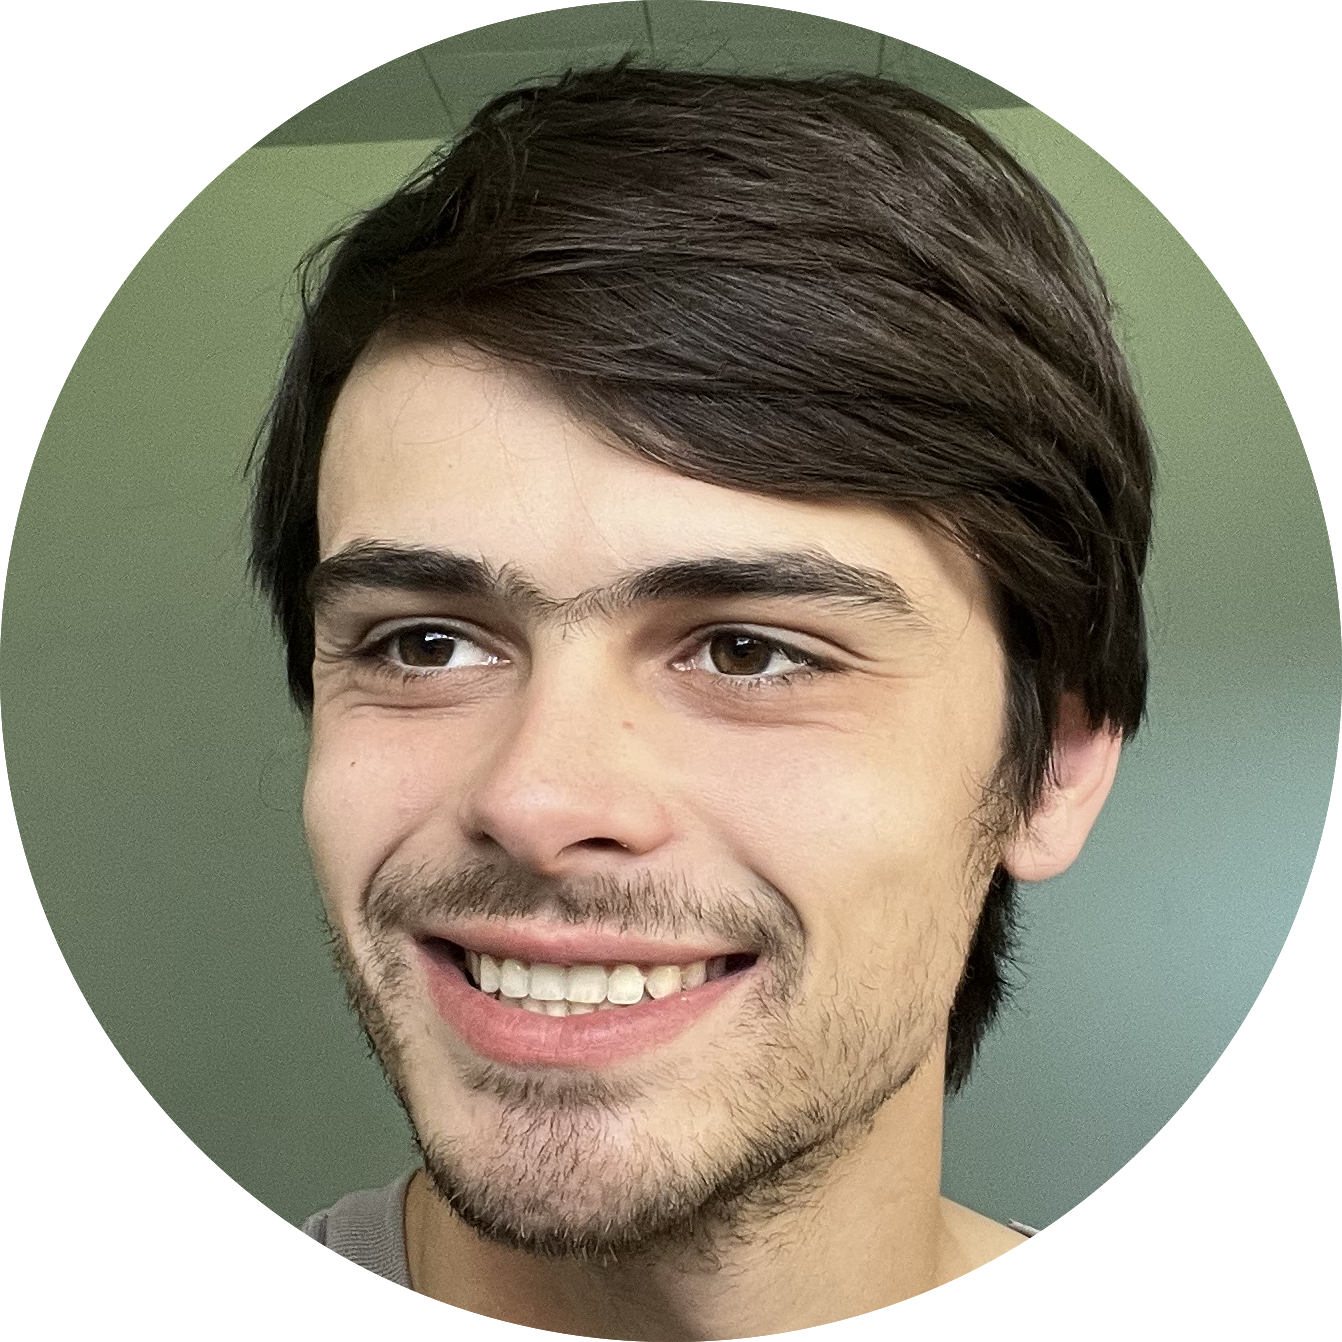
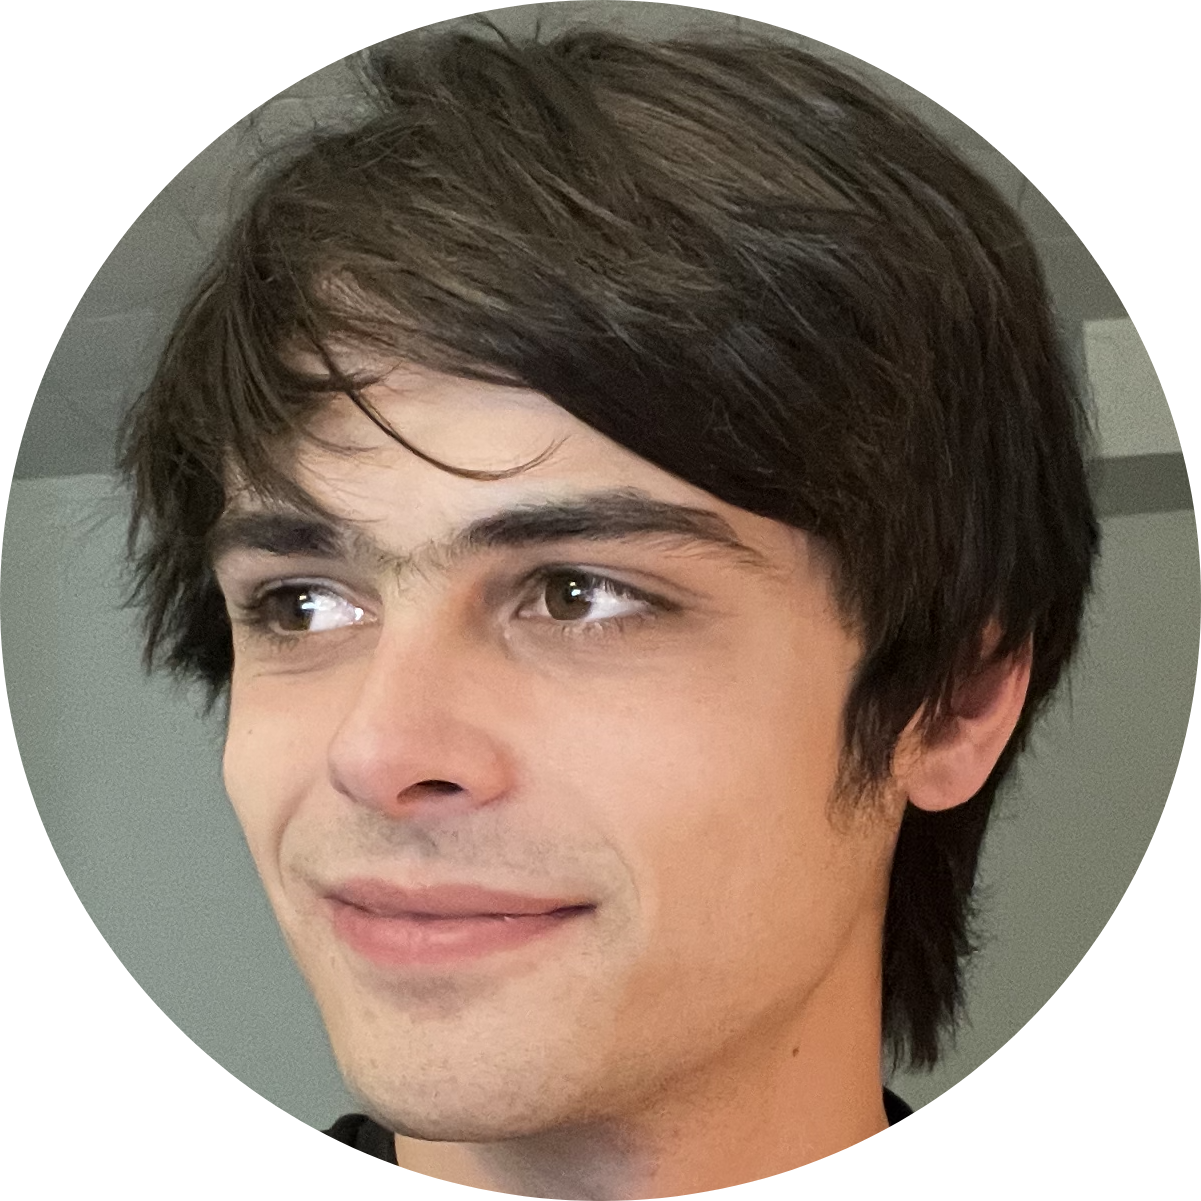
bio update

diff --git a/src/pages/Home.js b/src/pages/Home.js
@@ -2,6 +2,12 @@ import React, {useState, useEffect, useRef} from 'react'
 import styled from 'styled-components'
 import Body from '../components/Body'
 import pic from '../images/smile001.png'
+import pic2 from '../images/face.png'
+
+import jiraPic from '../images/jira.png'
+import npmPic from '../images/npm.png'
+
+
 import jsPic from '../images/javascript.png'
 import htmlPic from '../images/html5.png'
 import cssPic from '../images/css3.png'
@@ -27,58 +33,71 @@ import playhead from '../images/playhead.png'
 import arrow from '../images/triangle.png'
 import {isMobile} from 'react-device-detect'
 
-import MUUU from '../images/faceAngles/0 3.png'
 import MUU from '../images/faceAngles/0 2.png'
 import MU from '../images/faceAngles/0 1.png'
 import MM from '../images/faceAngles/0 0.png'
 import MD from '../images/faceAngles/0 -1.png'
 import MDD from '../images/faceAngles/0 -2.png'
-import MDDD from '../images/faceAngles/0 -3.png'
 
-import RUUU from '../images/faceAngles/1 3.png'
 import RUU from '../images/faceAngles/1 2.png'
 import RU from '../images/faceAngles/1 1.png'
 import RM from '../images/faceAngles/1 0.png'
 import RD from '../images/faceAngles/1 -1.png'
 import RDD from '../images/faceAngles/1 -2.png'
-import RDDD from '../images/faceAngles/1 -3.png'
 
-import RRUUU from '../images/faceAngles/2 3.png'
 import RRUU from '../images/faceAngles/2 2.png'
 import RRU from '../images/faceAngles/2 1.png'
 import RRM from '../images/faceAngles/2 0.png'
 import RRD from '../images/faceAngles/2 -1.png'
 import RRDD from '../images/faceAngles/2 -2.png'
-import RRDDD from '../images/faceAngles/2 -3.png'
 
-import LUUU from '../images/faceAngles/-1 3.png'
+
 import LUU from '../images/faceAngles/-1 2.png'
 import LU from '../images/faceAngles/-1 1.png'
 import LM from '../images/faceAngles/-1 0.png'
 import LD from '../images/faceAngles/-1 -1.png'
 import LDD from '../images/faceAngles/-1 -2.png'
-import LDDD from '../images/faceAngles/-1 -3.png'
 
-import LLUUU from '../images/faceAngles/-2 3.png'
 import LLUU from '../images/faceAngles/-2 2.png'
 import LLU from '../images/faceAngles/-2 1.png'
 import LLM from '../images/faceAngles/-2 0.png'
 import LLD from '../images/faceAngles/-2 -1.png'
 import LLDD from '../images/faceAngles/-2 -2.png'
-import LLDDD from '../images/faceAngles/-2 -3.png'
 
+const faceAngles = [
+    [LLUU, LLU, LLM, LLD, LLDD],
+    [LUU, LU, LM, LD, LDD],
+    [MUU, MU, MM, MD, MDD],
+    [RUU, RU, RM, RD, RDD],
+    [RRUU, RRU, RRM, RRD, RRDD],
+]
 
 const Home = () => {
 
     const [playerOpen, setPlayerOpen] = useState(false)
     const [selAudio, setSelAudio] = useState(null)
     const [selTitle, setSelTitle] = useState(null)
-  
+    const [facePic, setFacePic] = useState(MM)
 
     const [playing, setPlaying] = useState(false)
     const [progInt, setProgInt] = useState(null)
     const [progress, setProgress] = useState(0)
+    const [mousePos, setMousePos] = useState({})
+
     const audio = useRef()
+
+    useEffect(() => {
+
+    
+        window.addEventListener('mousemove', LookAtCursor);
+    
+        return () => {
+          window.removeEventListener(
+            'mousemove',
+            LookAtCursor
+          );
+        };
+      }, []);
 
     useEffect(()=>{
         console.log('player: ' + playerOpen)
@@ -126,8 +145,9 @@ const Home = () => {
     ]
     const toolTags = [
         {name: 'Git', img: gitPic},
-        {name: 'Heroku', img: herokuPic},
         {name: 'Figma', img: figmaPic},
+        {name: 'Jira', img: jiraPic},
+        {name: 'Heroku', img: herokuPic},
         {name: 'WordPress', img: wpPic},
         {name: 'Shopify', img: shopifyPic},
     ]
@@ -171,17 +191,40 @@ const Home = () => {
         }
     }
 
-    const LookingAtCursor = () =>{
-        
+    const LookAtCursor = (e) =>{
+        let mouseX = e.clientX
+        let mouseY = e.clientY
+        let width = window.innerWidth
+        let height = window.innerHeight
+        let relX = mouseX / width
+        let relY = mouseY / height
+
+        let indexX
+        for(let i=0; i<5; i++){
+            if(relX >= (i/5)){
+                indexX = i
+            }
+        }
+        let indexY
+        for(let i=0; i<5; i++){
+            if(relY >= (i/2/5)){
+                indexY = i
+            }
+        }
+        console.log('x:', indexX, 'y:', indexY)
+        setFacePic(faceAngles[indexX][indexY])
+
+
     }
 
+    
+
     return (
-        <Container>
+        <Container >
             <Body y={5} >
             
-            <ProfPic src={pic}/>
-                I'm Asher Bay, a developer in Salt Lake City, Utah. I build websites and apps with React and Ruby on Rails. I enjoy figuring out new tools and obsessing over interesting projects.<br/>In 2022 I graduated from DevPoint Labs, the University of Utah's full stack bootcamp. Since then I've continued to learn and build.
-                
+            <ProfPic src={pic} />
+                I'm Asher Bay, a developer in Salt Lake City, Utah. I build websites and apps with React and Ruby on Rails. I love obsessing over interesting projects and figuring out new tools. I discovered my passion for programming in 2019 while studying music composition in college.<br/>In 2022 I graduated from DevPoint Labs, the University of Utah's full stack bootcamp. After that I began a software engineering internship with Fresh App Design and Development which currently continues.
                 
             </Body>
             <Body >
@@ -311,6 +354,7 @@ const Container = styled.section`
     
 
 `
+
 
 const VolBox = styled.span`
     margin: 0px;
@@ -452,6 +496,8 @@ const ProfPic = styled.img`
         cursor: pointer;
     } 
 `
+
+
 
 const AudioLink = styled.a`
     color: #586ed5;

diff --git a/src/pages/Contact.js b/src/pages/Contact.js
@@ -95,7 +95,7 @@ const IconLink = styled.img`
 
 
 const Input = styled.input`
-    background: black;
+    background: transparent;
     border: ${styles.borderWidth}px solid white;
     color: white;
     border-radius: 0%;
